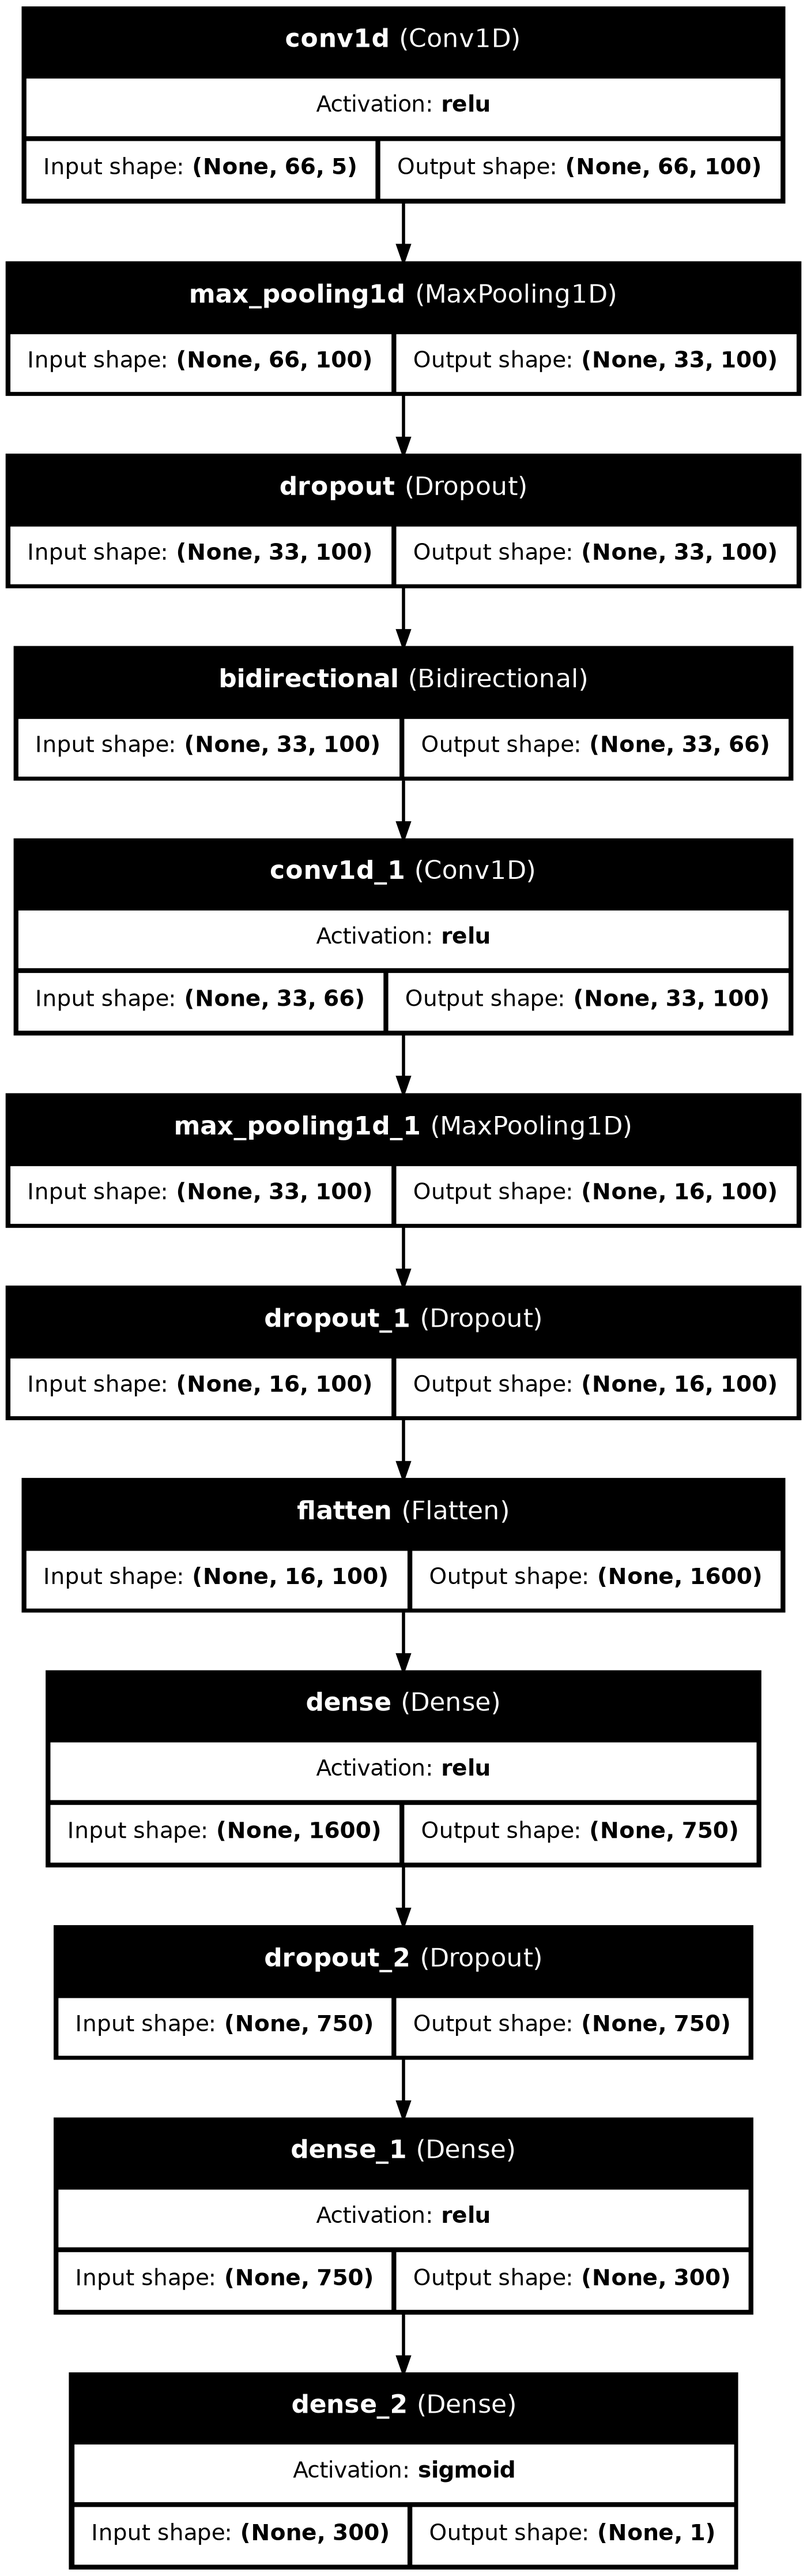
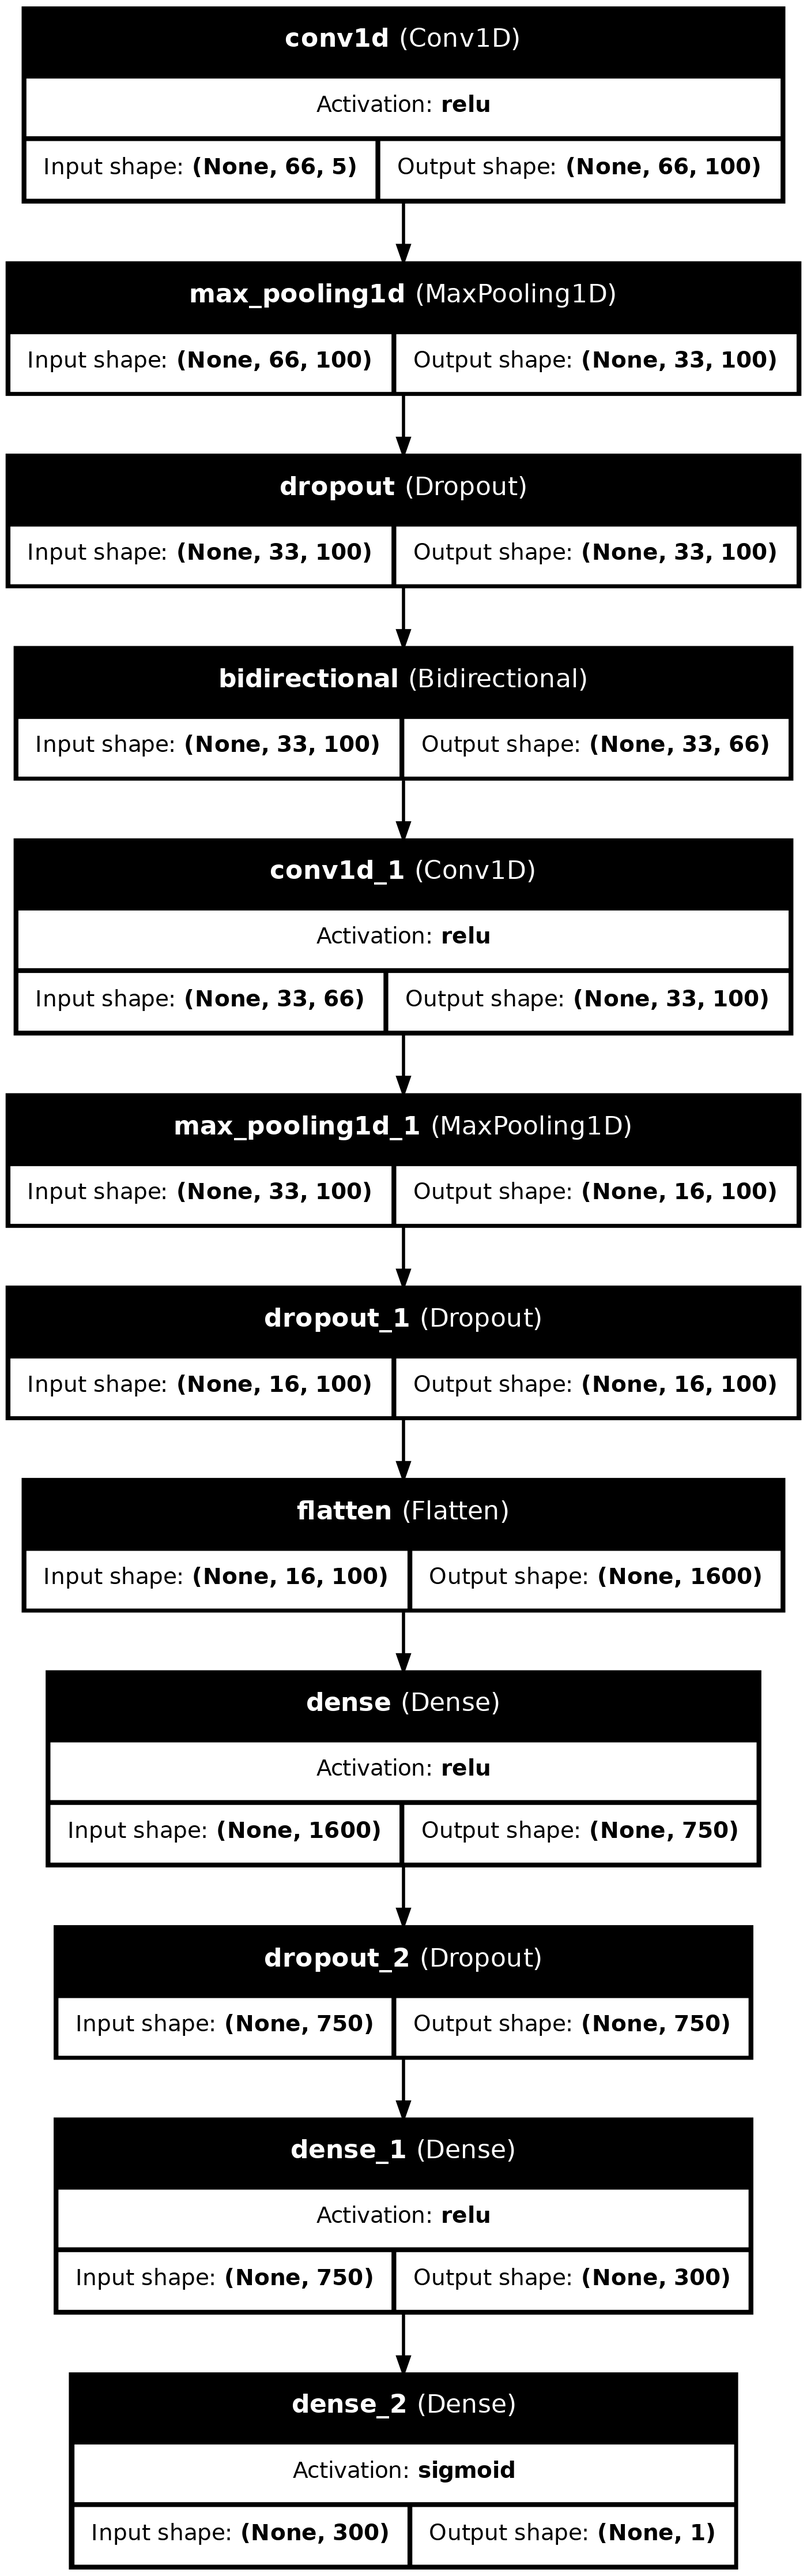
Update README.md (setup & run sections)

diff --git a/DISMIR_training.py b/DISMIR_training.py
@@ -9,7 +9,7 @@ from keras.models import Sequential
 from keras import layers
 from keras.callbacks import EarlyStopping, ModelCheckpoint
 # from keras import optimizers
-from tensorflow.keras.optimizers.legacy import SGD as optimizers_SGD
+from tensorflow.keras.optimizers import SGD as optimizers_SGD
 import tensorflow as tf
 from tensorflow.keras.utils import plot_model
 

diff --git a/README.md b/README.md
@@ -27,7 +27,22 @@ We also put the result file from *DISMIR_cal_risk.py* for reference (*value_resu
 
 For users to realize DISMIR, we also provided scripts to process *.BAM* files mapped with *BS-seeker2*. By running the script in "bam_processing" in order, you can get the *.BED* files containing switching regions and *.read* files as the input of the deep learning model. You can process your own data with these scripts and then realize DISMIR with the core codes. Here we need *samtools* to process the *.BAM* files. Python package *pyfaidx* and *pysam* are also required.
 
+## Setup
+```bash
+pip install -r requirements.txt
+ln -s train_data train_5_71
+ln -s test_data person_5_71
+mkdir train_dir
+mkdir store_dir
+```
 
+## Run
+```bash
+python DISMIR_training.py
+python DISMIR_predict_reads_source.py
+python DISMIR_cal_risk.py
+cat value_result_my.txt
+```
 
 # Citation
 If you use this code for your research, please cite our paper:
